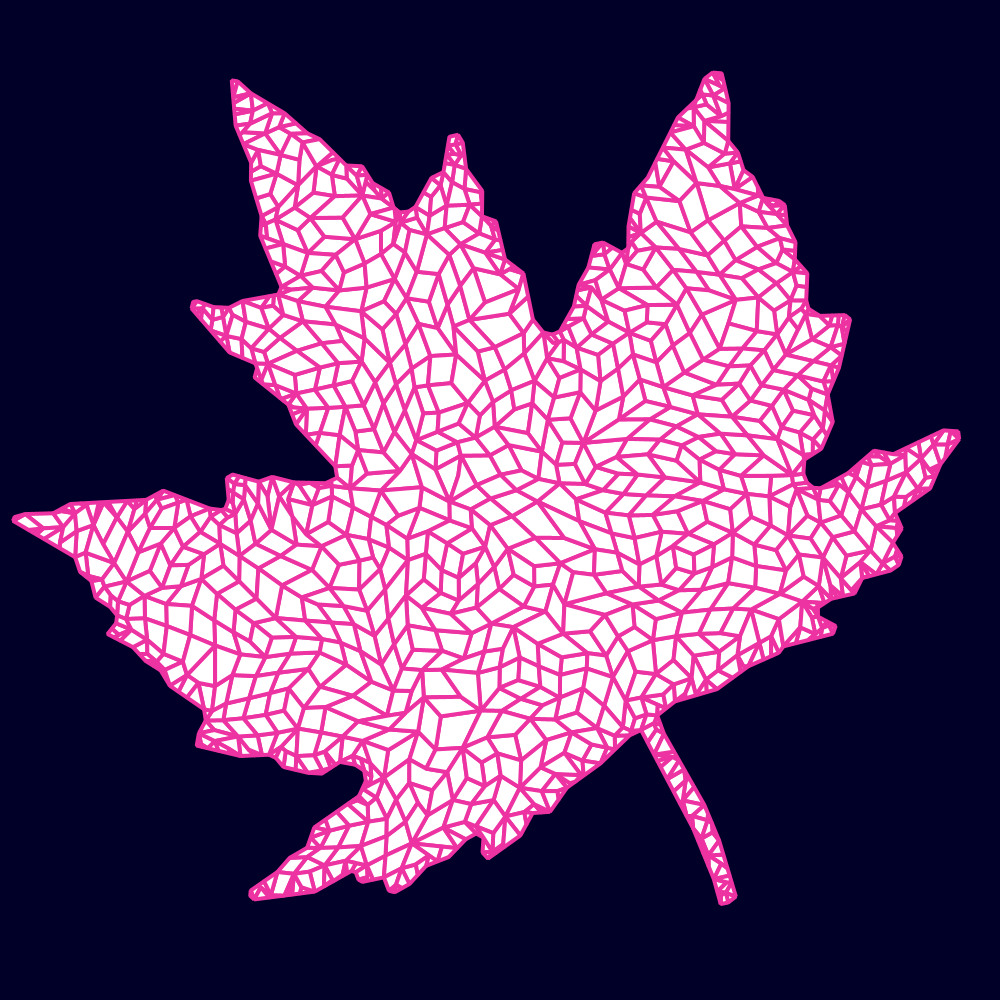
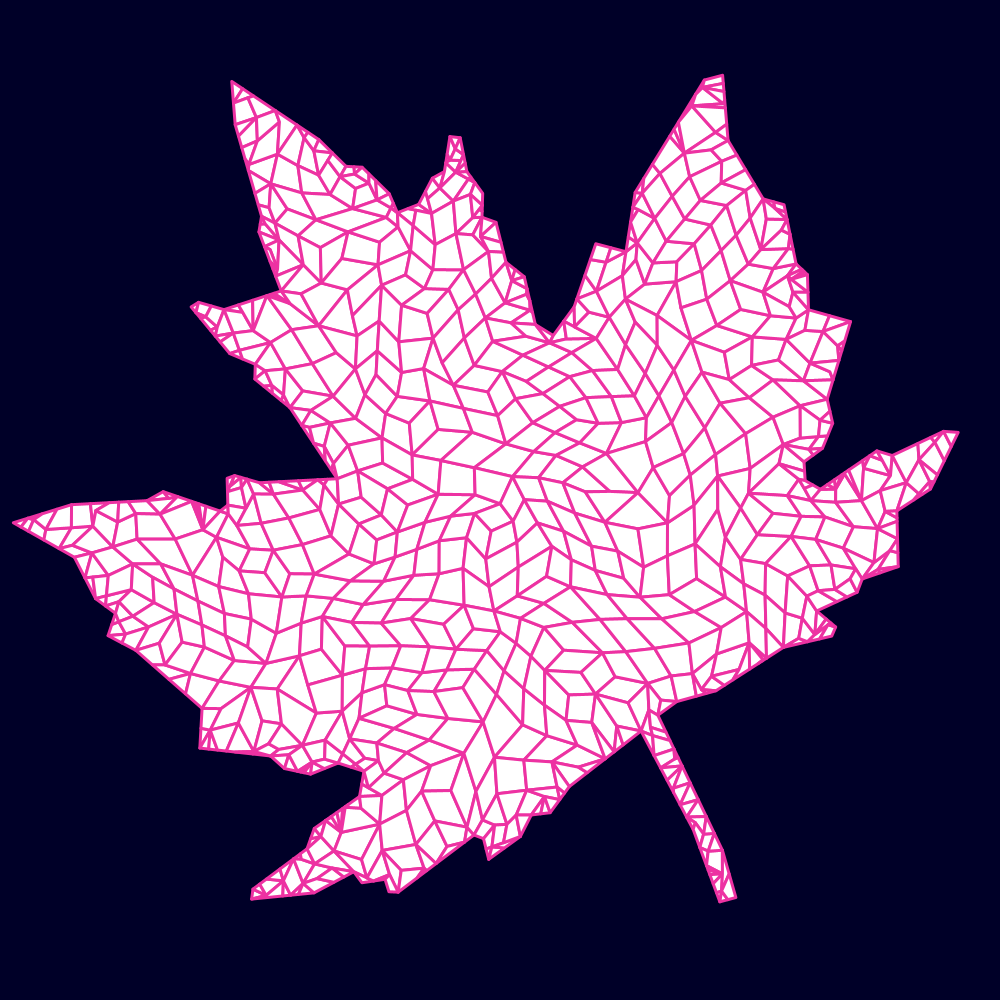
add matchingQuadrangulation()

Changed region(s): [[0.0, 0.062, 0.961, 0.899]]

diff --git a/src/main/java/micycle/pgs/PGS_Triangulation.java b/src/main/java/micycle/pgs/PGS_Triangulation.java
@@ -3,6 +3,7 @@ package micycle.pgs;
 import static micycle.pgs.PGS_Conversion.fromPShape;
 
 import java.util.ArrayList;
+import java.util.Arrays;
 import java.util.Collection;
 import java.util.Collections;
 import java.util.HashMap;
@@ -28,6 +29,7 @@ import org.tinfour.common.IQuadEdge;
 import org.tinfour.common.PolygonConstraint;
 import org.tinfour.common.SimpleTriangle;
 import org.tinfour.common.Vertex;
+import org.tinfour.edge.QuadEdge;
 import org.tinfour.standard.IncrementalTin;
 import org.tinfour.utils.HilbertSort;
 import org.tinfour.utils.TriangleCollector;
@@ -93,8 +95,7 @@ public final class PGS_Triangulation {
 	 * @see #delaunayTriangulationPoints(PShape, Collection, boolean, int, boolean)
 	 * @see #delaunayTriangulationMesh(PShape, Collection, boolean, int, boolean)
 	 */
-	public static PShape delaunayTriangulation(PShape shape, @Nullable Collection<PVector> steinerPoints, boolean constrain,
-			int refinements, boolean pretty) {
+	public static PShape delaunayTriangulation(PShape shape, @Nullable Collection<PVector> steinerPoints, boolean constrain, int refinements, boolean pretty) {
 		final IIncrementalTin tin = delaunayTriangulationMesh(shape, steinerPoints, constrain, refinements, pretty);
 		return toPShape(tin);
 	}
@@ -175,8 +176,8 @@ public final class PGS_Triangulation {
 	 * @see #delaunayTriangulation(PShape, Collection, boolean, int, boolean)
 	 * @see #delaunayTriangulationMesh(PShape, Collection, boolean, int, boolean)
 	 */
-	public static List<PVector> delaunayTriangulationPoints(PShape shape, @Nullable Collection<PVector> steinerPoints, boolean constrain,
-			int refinements, boolean pretty) {
+	public static List<PVector> delaunayTriangulationPoints(PShape shape, @Nullable Collection<PVector> steinerPoints, boolean constrain, int refinements,
+			boolean pretty) {
 		final IIncrementalTin tin = delaunayTriangulationMesh(shape, steinerPoints, constrain, refinements, pretty);
 
 		final ArrayList<PVector> triangles = new ArrayList<>();
@@ -254,8 +255,8 @@ public final class PGS_Triangulation {
 	 * @see #delaunayTriangulation(PShape, Collection, boolean, int, boolean)
 	 * @see #delaunayTriangulationPoints(PShape, Collection, boolean, int, boolean)
 	 */
-	public static IIncrementalTin delaunayTriangulationMesh(@Nullable PShape shape, @Nullable Collection<PVector> steinerPoints,
-			boolean constrain, int refinements, boolean pretty) {
+	public static IIncrementalTin delaunayTriangulationMesh(@Nullable PShape shape, @Nullable Collection<PVector> steinerPoints, boolean constrain,
+			int refinements, boolean pretty) {
 		return delaunayTriangulationMesh(shape, steinerPoints, constrain, refinements, pretty, true);
 
 	}
@@ -298,8 +299,8 @@ public final class PGS_Triangulation {
 	 *                            part of the triangulation (=true), or as a
 	 *                            boundary constraint only (=false).
 	 */
-	private static IIncrementalTin delaunayTriangulationMesh(@Nullable PShape shape, @Nullable Collection<PVector> steinerPoints,
-			boolean constrain, int refinements, boolean pretty, boolean insertShapeVertices) {
+	private static IIncrementalTin delaunayTriangulationMesh(@Nullable PShape shape, @Nullable Collection<PVector> steinerPoints, boolean constrain,
+			int refinements, boolean pretty, boolean insertShapeVertices) {
 		Geometry g = shape == null ? PGS.GEOM_FACTORY.createEmpty(2) : fromPShape(shape);
 		final IncrementalTin tin = new IncrementalTin(10);
 
@@ -460,8 +461,7 @@ public final class PGS_Triangulation {
 	public static IIncrementalTin poissonTriangulationMesh(PShape shape, double spacing) {
 		final Envelope e = fromPShape(shape).getEnvelopeInternal();
 
-		final List<PVector> poissonPoints = PGS_PointSet.poisson(e.getMinX(), e.getMinY(), e.getMinX() + e.getWidth(),
-				e.getMinY() + e.getHeight(), spacing, 0);
+		final List<PVector> poissonPoints = PGS_PointSet.poisson(e.getMinX(), e.getMinY(), e.getMinX() + e.getWidth(), e.getMinY() + e.getHeight(), spacing, 0);
 
 		final IIncrementalTin tin = delaunayTriangulationMesh(shape, poissonPoints, true, 0, false);
 		return tin;
@@ -584,14 +584,21 @@ public final class PGS_Triangulation {
 	 * <p>
 	 * A dual graph of a triangulation has a vertex for each constrained triangle of
 	 * the input, and an edge connecting each pair of triangles that are adjacent.
+	 * <p>
+	 * Edges are weighted, where weights represent a quality measure ([0...1], where
+	 * 1 is a perfect square) for the quadrilateral formed by collapsing the shared
+	 * edge between the two triangles.
 	 * 
 	 * @param triangulation triangulation mesh
-	 * @return
 	 * @since 1.3.0
+	 * @return a simple weighted dual graph
 	 * @see #toTinfourGraph(IIncrementalTin)
 	 */
 	public static SimpleGraph<SimpleTriangle, DefaultEdge> toDualGraph(IIncrementalTin triangulation) {
-		final SimpleGraph<SimpleTriangle, DefaultEdge> graph = new SimpleGraph<>(DefaultEdge.class);
+		final SimpleGraph<SimpleTriangle, DefaultEdge> graph = new SimpleWeightedGraph<>(DefaultEdge.class);
+		// vertex supplier required in some graph algorithms
+		QuadEdge dummy = new QuadEdge(0);
+		graph.setVertexSupplier(() -> new SimpleTriangle(null, dummy, dummy, dummy));
 
 		final boolean notConstrained = triangulation.getConstraints().isEmpty();
 		final Map<IQuadEdge, SimpleTriangle> edgeMap = new HashMap<>(triangulation.countTriangles().getCount() * 3);
@@ -602,22 +609,39 @@ public final class PGS_Triangulation {
 				edgeMap.put(t.getEdgeA(), t);
 				edgeMap.put(t.getEdgeB(), t);
 				edgeMap.put(t.getEdgeC(), t);
-				graph.addVertex(t);
+				graph.addVertex(t); // triangle
 			}
 		});
 
+		/*
+		 * Set the edge weight. This provides a quality measure for the quadrilateral
+		 * element formed by collapsing the shared edge between two triangles. This
+		 * weight is used in Blossom Quad algorithm.
+		 */
 		graph.vertexSet().forEach(t -> {
-			final SimpleTriangle n1 = edgeMap.get(t.getEdgeA().getDual());
-			final SimpleTriangle n2 = edgeMap.get(t.getEdgeB().getDual());
-			final SimpleTriangle n3 = edgeMap.get(t.getEdgeC().getDual());
-			if (n1 != null) {
-				graph.addEdge(t, n1);
+			final SimpleTriangle t1 = edgeMap.get(t.getEdgeA().getDual());
+			final SimpleTriangle t2 = edgeMap.get(t.getEdgeB().getDual());
+			final SimpleTriangle t3 = edgeMap.get(t.getEdgeC().getDual());
+			if (t1 != null) {
+				var edge = graph.addEdge(t, t1);
+				if (edge != null) {
+					double weight = computeQuadQuality(t, t1, t.getEdgeA());
+					graph.setEdgeWeight(edge, weight);
+				}
 			}
-			if (n2 != null) {
-				graph.addEdge(t, n2);
+			if (t2 != null) {
+				var edge = graph.addEdge(t, t2);
+				if (edge != null) {
+					double weight = computeQuadQuality(t, t2, t.getEdgeB());
+					graph.setEdgeWeight(edge, weight);
+				}
 			}
-			if (n3 != null) {
-				graph.addEdge(t, n3);
+			if (t3 != null) {
+				var edge = graph.addEdge(t, t3);
+				if (edge != null) {
+					double weight = computeQuadQuality(t, t3, t.getEdgeC());
+					graph.setEdgeWeight(edge, weight);
+				}
 			}
 		});
 
@@ -665,4 +689,51 @@ public final class PGS_Triangulation {
 		y /= 3;
 		return new Coordinate(x, y);
 	}
+
+	/**
+	 * Computes the quality measure of a quadrilateral formed by merging two
+	 * adjacent triangles. The quality measure is based on the maximum deviation of
+	 * the interior angles of the quadrilateral from 90 degrees (π/2 radians). A
+	 * perfect rectangle or square will have a quality measure of 1, while a
+	 * quadrilateral with an angle of 0 or π radians will have a quality measure of
+	 * 0.
+	 * 
+	 * @param t1         The first triangle sharing the edge with the second
+	 *                   triangle.
+	 * @param t2         The second triangle sharing the edge with the first
+	 *                   triangle.
+	 * @param sharedEdge The edge shared by t1 and t2, belonging to t1. The dual of
+	 *                   this edge (sharedEdge.getDual()) represents the same edge
+	 *                   but belonging to t2.
+	 * @return A quality measure between 0 and 1, where 1 indicates a perfect
+	 *         quadrilateral (all interior angles are 90 degrees) and 0 indicates a
+	 *         degenerate quadrilateral (at least one interior angle is 0 or π
+	 *         radians).
+	 */
+	private static double computeQuadQuality(SimpleTriangle t1, SimpleTriangle t2, IQuadEdge sharedEdge) {
+		PVector a = toPVector(sharedEdge.getReverse().getA());
+		PVector b = toPVector(sharedEdge.getA());
+		PVector c = toPVector(sharedEdge.getReverseFromDual().getA());
+		PVector d = toPVector(sharedEdge.getB());
+
+		List<PVector> vertices = Arrays.asList(a, b, c, d);
+
+		PShape quad = PGS_Conversion.fromPVector(vertices);
+
+		Map<PVector, Double> angles = PGS_ShapePredicates.interiorAngles(quad);
+
+		// Calculate maximum deviation from 90 degrees
+		double maxDeviation = 0.0;
+		for (double angle : angles.values()) {
+			double deviation = Math.abs(Math.PI / 2 - angle);
+			if (deviation > maxDeviation) {
+				maxDeviation = deviation;
+			}
+		}
+
+		double cost = 1 - (2 / Math.PI) * maxDeviation;
+		cost = Math.max(cost, 0); // Ensure cost is non-negative
+		return cost;
+	}
+
 }

diff --git a/src/main/java/micycle/pgs/PGS_Meshing.java b/src/main/java/micycle/pgs/PGS_Meshing.java
@@ -16,7 +16,11 @@ import java.util.stream.IntStream;
 
 import org.apache.commons.math3.random.RandomGenerator;
 import org.jgrapht.alg.connectivity.ConnectivityInspector;
+import org.jgrapht.alg.interfaces.MatchingAlgorithm;
 import org.jgrapht.alg.interfaces.VertexColoringAlgorithm.Coloring;
+import org.jgrapht.alg.matching.blossom.v5.KolmogorovWeightedMatching;
+import org.jgrapht.alg.matching.blossom.v5.KolmogorovWeightedPerfectMatching;
+import org.jgrapht.alg.matching.blossom.v5.ObjectiveSense;
 import org.jgrapht.alg.spanning.GreedyMultiplicativeSpanner;
 import org.jgrapht.alg.util.NeighborCache;
 import org.jgrapht.graph.AbstractBaseGraph;
@@ -366,7 +370,9 @@ public class PGS_Meshing {
 
 		/*-
 		 * Now ideally "regularize" the mesh using techniques explored here:
+		 * Towards Fully Regular Quad Mesh Generation - 
 		 * https://acdl.mit.edu/ESP/Publications/AIAApaper2019-1988.pdf
+		 * A REGULARIZATION APPROACH FOR AUTOMATIC QUAD MESH GENERATION - 
 		 * https://acdl.mit.edu/ESP/Publications/IMR28.pdf
 		 */
 
@@ -391,6 +397,8 @@ public class PGS_Meshing {
 	 *                          triangles being included in the output).
 	 * @return a GROUP PShape, where each child shape is one quadrangle
 	 * @since 1.2.0
+	 * @see #matchingQuadrangulation(IIncrementalTin) matchingQuadrangulation() -- a
+	 *      similar approach, but faster
 	 */
 	public static PShape edgeCollapseQuadrangulation(final IIncrementalTin triangulation, final boolean preservePerimeter) {
 		/*-
@@ -492,6 +500,69 @@ public class PGS_Meshing {
 		} else {
 			return removeHoles(quads, triangulation);
 		}
+	}
+
+	/**
+	 * Converts a triangulation into a quadrangulation, by pairing up ("matching")
+	 * triangles and merging them into quads. (This is the first step of the
+	 * <i>Blossom-Quad algorithm</i>.)
+	 * <p>
+	 * The method tries to maximise the quality of the quads of the output, meaning
+	 * it aims to create quadrilaterals that are as regular and well-shaped
+	 * (square-like) as possible.
+	 * <p>
+	 * Sometimes, it’s not possible to pair all triangles perfectly (such as when
+	 * there is not an even number of triangles). In those cases, the result will
+	 * include some leftover triangles along with the quads.
+	 * <p>
+	 * This method follows a similar principle to
+	 * {@link #edgeCollapseQuadrangulation(IIncrementalTin, boolean)
+	 * edgeCollapseQuadrangulation()}, but instead of using graph coloring to
+	 * identify triangle pairs, it uses the Kolmogorov algorithm to find pairings.
+	 *
+	 * @param triangulation The input mesh made of triangles. This is the starting
+	 *                      point for creating the quadrangulation.
+	 * @return A GROUP PShape made of quadrilaterals (and possibly some triangles if
+	 *         pairing wasn’t perfect).
+	 *
+	 * @since 2.1
+	 */
+	public static PShape matchingQuadrangulation(final IIncrementalTin triangulation) {
+		var g = PGS_Triangulation.toDualGraph(triangulation);
+		MatchingAlgorithm<SimpleTriangle, DefaultEdge> m;
+
+		/*
+		 * A perfect matching is not always possible, so fall back to regular matching.
+		 * When this happens not all edges can be collapsed, so the output will contain
+		 * some triangles alongside the quads.
+		 */
+		try {
+			m = new KolmogorovWeightedPerfectMatching<>(g, ObjectiveSense.MAXIMIZE);
+			m.getMatching();
+		} catch (Exception e2) {
+			m = new KolmogorovWeightedMatching<>(g, ObjectiveSense.MAXIMIZE);
+		}
+		var collapsedEdges = m.getMatching().getEdges();
+
+		Set<SimpleTriangle> seen = new HashSet<>(g.vertexSet());
+		var quads = collapsedEdges.stream().map(e -> {
+			var t1 = g.getEdgeSource(e);
+			var f1 = toPShape(t1);
+			var t2 = g.getEdgeTarget(e);
+			var f2 = toPShape(t2);
+
+			seen.remove(t1);
+			seen.remove(t2);
+			var quad = PGS_ShapeBoolean.union(f1, f2);
+			return quad;
+		}).collect(Collectors.toList()); // modifiable list
+
+		// include uncollapsed triangles (if any)
+		seen.forEach(t -> {
+			quads.add(toPShape(t));
+		});
+
+		return PGS_Conversion.flatten(quads);
 	}
 
 	/**
@@ -776,8 +847,10 @@ public class PGS_Meshing {
 	 * <p>
 	 * This subdivision method is most effective on meshes whose faces are convex
 	 * and have a low vertex count (i.e., less than 6), where edge division points
-	 * correspond between adjacent faces. This method may fail on meshes with highly
-	 * concave faces because centroid-vertex visibility is not guaranteed.
+	 * correspond between adjacent faces.
+	 * <p>
+	 * <b>Note</b>: This method may fail on meshes with highly concave faces because
+	 * centroid-vertex visibility is not guaranteed.
 	 * 
 	 * @param mesh           The mesh containing faces to subdivide.
 	 * @param edgeSplitRatio The distance ratio [0...1] along each edge where the
@@ -1019,6 +1092,13 @@ public class PGS_Meshing {
 		double y = a.y + b.y + c.y;
 		y /= 3;
 		return new Vertex(x, y, 0);
+	}
+
+	private static PShape toPShape(SimpleTriangle t) {
+		PVector vertexA = new PVector((float) t.getVertexA().x, (float) t.getVertexA().y);
+		PVector vertexB = new PVector((float) t.getVertexB().x, (float) t.getVertexB().y);
+		PVector vertexC = new PVector((float) t.getVertexC().x, (float) t.getVertexC().y);
+		return PGS_Conversion.fromPVector(Arrays.asList(vertexA, vertexB, vertexC, vertexA));
 	}
 
 }

diff --git a/CHANGELOG.md b/CHANGELOG.md
@@ -16,6 +16,7 @@ and this project adheres to [Semantic Versioning](https://semver.org/spec/v2.0.0
 * `closestPoint()` to `PGS_Optimisation`. Finds the closest point in a collection of points to a specified point.
 * `distanceTree()` to `PGS_Contour`. Generates a tree structure representing the shortest paths from a start point to all other vertices in a mesh.
 * `vertexCount()` to `PGS_ShapePredicates`. Returns the total number of vertices that make up a shape.
+* `matchingQuadrangulation()` to `PGS_Meshing`. Converts a triangulation into a quadrangulation, by pairing up triangles and merging them into high-quality quads.
 
 ### Changes
 * Optimised `PGS_CirclePacking.tangencyPack()`. It's now around 1.5-2x faster and has higher precision.

diff --git a/README.md b/README.md
@@ -547,10 +547,12 @@ Much of the functionality (but by no means all) is demonstrated below:
   <tr>
     <td align="center" valign="center"><b>Extract Inner Vertices</td>
     <td align="center" valign="center"><b>Fix Breaks</td>
+    <td align="center" valign="center"><b>Matching Quadrangulation</td>
   </tr>
   <tr>
     <td valign="top" width="25%"><img src="resources/meshing/extractInnerVertices.gif"></td>
     <td valign="top" width="25%"><img src="resources/geometry_processing/cleanCoverage.gif"></td>
+    <td valign="top" width="25%"><img src="resources/meshing/matchingQuadrangulation.png"></td>
   </tr>
 </table>
 
